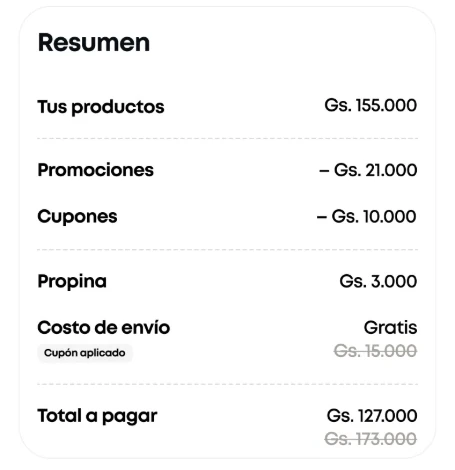
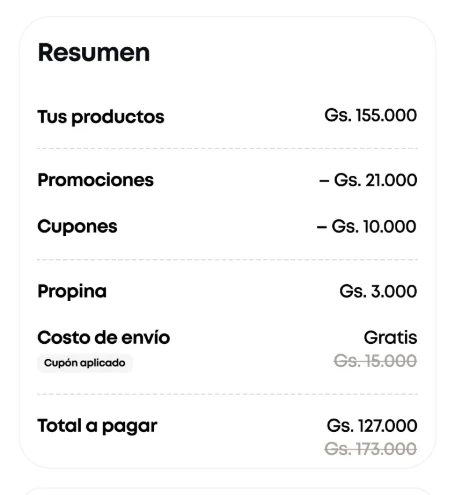
Monchis: Dar claridad como escena con la pantalla de cupones al centro
Recortes con más contexto (pago con cupones activados, pantalla de cupones completa, resumen con aire) y una composición distinta al bloque 01.

Claude-Session: https://claude.ai/code/session_01DJ4kQgEHjb3PtnpPBBuZ5X

diff --git a/proyectos/monchis.html b/proyectos/monchis.html
@@ -117,10 +117,10 @@ summary: 'En Monchis, los pedidos podían ser con envío a domicilio, retiro en 
             <h3>Dar claridad <em>sin perder el foco</em></h3>
             <p>Reorganizamos la información para priorizar la entrega, los medios de pago, los beneficios y el resumen. Los métodos de pago conservaron su protagonismo, y el total y «Finalizar pedido» quedaron visibles durante todo el recorrido.</p>
           </div>
-          <div class="crit-visual is-three is-fan">
-            <figure class="comp"><img src="/assets/img/monchis-componente-pago.webp" alt="Recorte del checkout: bloque «¿Cómo querés pagar?» con el método de pago y, debajo, el footer fijo con el total y el botón Finalizar pedido" width="923" height="710" loading="lazy" decoding="async"><figcaption>Pago y total siempre visibles</figcaption></figure>
-            <figure class="comp"><img src="/assets/img/monchis-componente-cupones.webp" alt="Recorte del listado de cupones: un cupón de Gs. 8.000 con compra mínima y vigencia, y otro atenuado con la etiqueta «No aplica para este pedido»" width="923" height="868" loading="lazy" decoding="async"><figcaption>Cupones con condiciones</figcaption></figure>
-            <figure class="comp"><img src="/assets/img/monchis-componente-resumen.webp" alt="Recorte del resumen del pedido: tus productos, promociones, cupones, propina y costo de envío con «Cupón aplicado», y el total a pagar con el monto anterior tachado" width="455" height="470" loading="lazy" decoding="async"><figcaption>Cada cobro, a la vista</figcaption></figure>
+          <div class="crit-visual is-stage">
+            <figure class="st-card st-pago"><img src="/assets/img/monchis-componente-pago.webp" alt="Recorte del checkout: «¿Cómo querés pagar?» con tarjeta de crédito, la fila Cupones con los beneficios activados «Envío gratis» y «Gs. 10.000», y el footer fijo con el total y Finalizar pedido" width="923" height="1110" loading="lazy" decoding="async"><figcaption>Pago y cupones, juntos</figcaption></figure>
+            <figure class="st-phone"><div class="st-screen"><img src="/assets/img/monchis-componente-cupones.webp" alt="Pantalla Cupones: campo para validar un código, cupón «Envío gratis» activo, cupón de Gs. 8.000 con compra mínima y vigencia, y otro atenuado con «No aplica para este pedido»" width="923" height="1590" loading="lazy" decoding="async"></div><figcaption>Cupones con condiciones</figcaption></figure>
+            <figure class="st-card st-resumen"><img src="/assets/img/monchis-componente-resumen.webp" alt="Recorte del resumen del pedido: productos, promociones, cupones, propina, costo de envío con «Cupón aplicado» y total a pagar con el monto anterior tachado" width="455" height="495" loading="lazy" decoding="async"><figcaption>Cada cobro, a la vista</figcaption></figure>
           </div>
         </article>
         <article class="crit crit--stack tip-cmp" data-switch>

diff --git a/assets/styles.css b/assets/styles.css
@@ -2258,3 +2258,23 @@ body { font-family: var(--sans); font-size: var(--fs-body); line-height: 1.65; f
 /* Operación: captura de WhatsApp sin mockup de teléfono (se mantiene la pill) */
 .ex-chat-phone { padding: 0; background: none; border-radius: 18px; box-shadow: 0 0 0 1px var(--line), 0 22px 40px -28px rgba(41, 38, 43, .35); overflow: hidden; }
 .ex-chat-phone img { border-radius: 0; }
+
+/* Monchis · 02 Dar claridad: escena con la pantalla de cupones al centro y
+   dos recortes flotando a distinta altura (variante distinta al bloque 01) */
+.crit-visual.is-stage { display: grid; grid-template-columns: minmax(0, 1fr) minmax(0, 1.05fr) minmax(0, 1fr); align-items: center; gap: clamp(14px, 2.4vw, 32px); padding: clamp(28px, 3.5vw, 44px) clamp(18px, 3vw, 40px) clamp(40px, 4vw, 52px); background: radial-gradient(120% 90% at 50% 0%, var(--bg-2) 0%, var(--bg-3) 60%); }
+.is-stage figure { margin: 0; position: relative; display: grid; justify-items: center; gap: 12px; transition: transform .5s var(--ease); }
+.is-stage .st-card img { display: block; width: 100%; height: auto; border-radius: 18px; background: var(--surface); box-shadow: 0 0 0 1px var(--line), 0 26px 46px -26px rgba(41, 38, 43, .42); }
+.is-stage .st-pago { align-self: end; }
+.is-stage .st-resumen { align-self: start; }
+.st-screen { padding: 7px; border-radius: 34px; background: var(--ink); box-shadow: inset 0 0 0 1.5px #4A454D, 0 34px 60px -30px rgba(41, 38, 43, .5); }
+.st-screen img { display: block; width: 100%; height: auto; border-radius: 27px; }
+.is-stage figcaption { display: inline-flex; align-items: center; gap: 7px; padding: 5px 11px; border-radius: 999px; background: var(--surface); border: 1px solid var(--line); font-size: .7rem; font-weight: var(--w-semibold); color: var(--ink); white-space: nowrap; }
+.is-stage figcaption::before { content: ""; width: 7px; height: 7px; border-radius: 50%; background: var(--rose); }
+@media (hover: hover) { .is-stage figure:hover { transform: translateY(-6px); } }
+@media (max-width: 699px) {
+  .crit-visual.is-stage { grid-template-columns: repeat(2, minmax(0, 1fr)); padding: 24px 14px 28px; gap: 18px 12px; }
+  .is-stage .st-phone { grid-column: 1 / -1; order: -1; width: 78%; justify-self: center; }
+  .is-stage .st-pago, .is-stage .st-resumen { align-self: start; }
+  .is-stage figcaption { font-size: .62rem; padding: 4px 8px; }
+}
+@media (prefers-reduced-motion: reduce) { .is-stage figure { transition: none; } }
